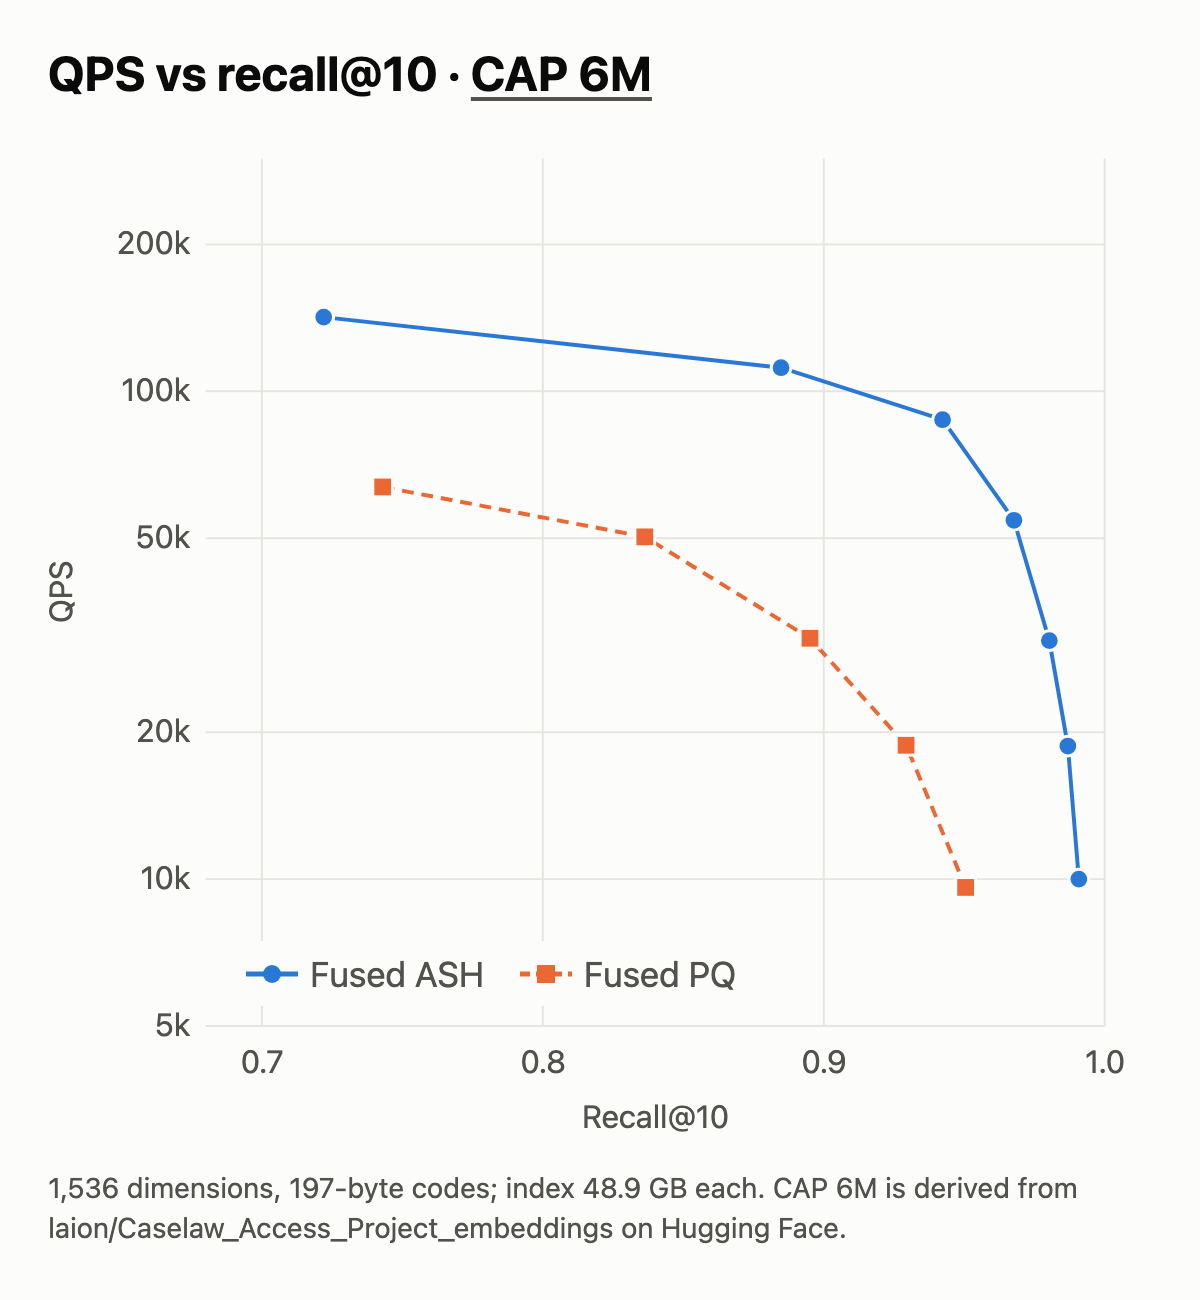
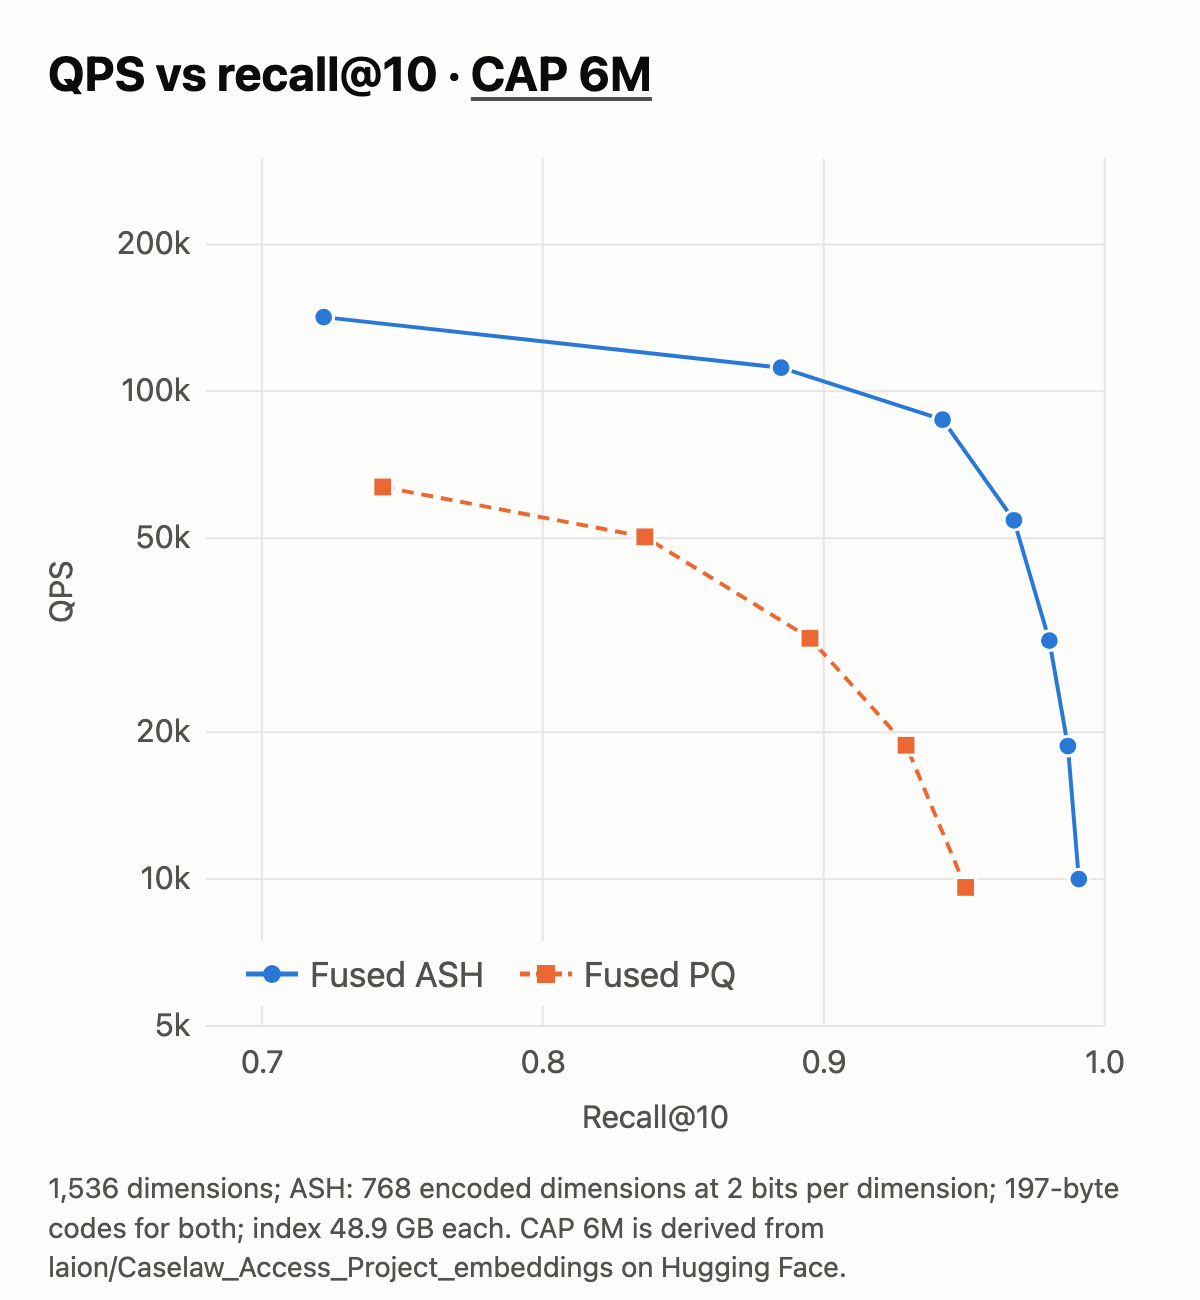
Fix README and example doc issues found in a fresh-clone walkthrough
Correct plot footnotes, CPU requirements and run instructions; fix stale links and anchors.

Changed region(s): [[0.0308, 0.8923, 0.925, 0.9846]]

diff --git a/jvector-examples/README.md b/jvector-examples/README.md
@@ -1,6 +1,29 @@
 # JVector Examples
 
-JVector comes with the following sample programs to try:
+JVector comes with the following sample programs to try. Build them once from the repository root,
+using JDK 22 or newer:
+
+```bash
+mvn -pl jvector-examples -am -DskipTests package -Dnative.onednn=true
+JAR=$(ls jvector-examples/target/jvector-examples-*-jar-with-dependencies.jar)
+```
+
+`-Dnative.onednn=true` adds the oneDNN library described in the
+[native build guide](../jvector-native/src/main/native/README.md#recommended-onednn-build-and-package);
+it needs CMake. The programs download public datasets on first use and cache them under
+`dataset_cache/` in the current directory; set `DATASET_CACHE_DIR` to cache them elsewhere (see
+[datasets](yaml-configs/dataset-catalogs/datasets.md)).
+
+### Hello vector world
+
+[HelloVectorWorld](src/main/java/io/github/jbellis/jvector/example/HelloVectorWorld.java) builds an
+in-memory graph over the public `ada002-100k` dataset (1,536 dimensions, about 650 MB to download)
+and prints the ten nearest neighbors of one query:
+
+```bash
+java --add-modules jdk.incubator.vector --enable-native-access=ALL-UNNAMED \
+  -cp "$JAR" io.github.jbellis.jvector.example.HelloVectorWorld
+```
 
 ### Hello ASH world
 
@@ -10,7 +33,8 @@ public `e5-small-v2-100k` dataset (downloaded and cached automatically):
 - [HelloASHWorldInt8](src/main/java/io/github/jbellis/jvector/example/HelloASHWorldInt8.java):
   INT8 query projection, for x86-64 processors with AVX-512 VNNI or AVX-VNNI.
 - [HelloASHWorldFp16](src/main/java/io/github/jbellis/jvector/example/HelloASHWorldFp16.java):
-  native FP16 query projection, for x86-64 processors with AVX-512 FP16.
+  native FP16 query projection, for x86-64 processors with AVX-512 FP16 (Intel Sapphire Rapids or
+  newer); it also needs the oneDNN add-on.
 
 Both teach the same six steps: load vectors, train/encode ASH, construct the graph,
 write fused ASH neighborhoods with NVQ reranking vectors, reopen and search
@@ -19,27 +43,24 @@ They use ASH(b=2,d=192) for 384-dimensional inputs. Stored-code precision (`b`)
 is independent of query-projection precision; training and encoding remain FP32.
 NVQ's mean is collected during ASH encoding, avoiding another input scan.
 
-Build the examples with the native provider and oneDNN support described in the
-[native build guide](../jvector-native/src/main/native/README.md#recommended-onednn-build-and-package).
-From the repository root, using JDK 22 or newer:
+With the jar built as above:
 
 ```bash
-mvn package -DskipTests
-java --add-modules=jdk.incubator.vector --enable-native-access=ALL-UNNAMED -Xmx8g \
-  -cp jvector-examples/target/jvector-examples-4.1.0-SNAPSHOT-jar-with-dependencies.jar \
-  io.github.jbellis.jvector.example.HelloASHWorldInt8
-java --add-modules=jdk.incubator.vector --enable-native-access=ALL-UNNAMED -Xmx8g \
-  -cp jvector-examples/target/jvector-examples-4.1.0-SNAPSHOT-jar-with-dependencies.jar \
-  io.github.jbellis.jvector.example.HelloASHWorldFp16
+java --add-modules jdk.incubator.vector --enable-native-access=ALL-UNNAMED -Xmx8g \
+  -cp "$JAR" io.github.jbellis.jvector.example.HelloASHWorldInt8
+java --add-modules jdk.incubator.vector --enable-native-access=ALL-UNNAMED -Xmx8g \
+  -cp "$JAR" io.github.jbellis.jvector.example.HelloASHWorldFp16
 ```
 
-Run the program matching your CPU; explicit unsupported precisions fail instead
-of silently changing precision. Each saves `ash-int8.graph` or `ash-fp16.graph`
+Run the program matching your CPU. On Linux,
+`grep -o -m1 -w 'avx512_fp16\|avx512_vnni\|avx_vnni' /proc/cpuinfo` lists the features that
+apply. An unsupported precision fails instead of silently changing precision; HelloASHWorldFp16
+reports this only after it has built and saved its index. Each saves `ash-int8.graph` or `ash-fp16.graph`
 and prints top-ten vector ordinals, similarity scores and visited-node counts
 for the first held-out query using both synchronous and queued search. An optional
 argument selects a new output path;
-existing files are never overwritten. Original vectors are not needed to reopen
-the finished index.
+existing files are never overwritten, so delete the index or pass a new path to run a
+program again. Original vectors are not needed to reopen the finished index.
 
 The synchronous section introduces preparation and graph search for one query.
 The queued section submits eight independent queries using two application-assigned
@@ -59,15 +80,17 @@ For more hardware choices, see [projection precision](../docs/ash-projection-pre
 ### Batched file-backed vectors
 
 Two hello-world programs use public-catalog `e5-small-v2-100k`, or accept an existing
-`.fvecs` file through `-DvectorFile=/path/to/vectors.fvecs`:
+`.fvecs` file:
 
 ```bash
-mvn -Pjdk20 -pl jvector-examples -am compile exec:exec@hello-batched-vectors
-mvn -Pjdk20 -pl jvector-examples -am compile exec:exec@hello-batched-quantization
+java --add-modules jdk.incubator.vector --enable-native-access=ALL-UNNAMED \
+  -cp "$JAR" io.github.jbellis.jvector.example.HelloBatchedVectors
+java --add-modules jdk.incubator.vector --enable-native-access=ALL-UNNAMED \
+  -cp "$JAR" io.github.jbellis.jvector.example.HelloBatchedQuantization
 ```
 
-Run from the repository root with JDK 23. The first demonstrates scans, selections
-and vector ownership; the second trains and encodes with PQ and NVQ. See
+To use your own file, pass its path (`/path/to/vectors.fvecs`) as the argument. The first
+demonstrates scans, selections and vector ownership; the second trains and encodes with PQ and NVQ. See
 [Batched input vector access](../docs/batched-vector-access.md) for configuration,
 source lifecycle, and integration guidance.
 
@@ -77,24 +100,14 @@ A simple benchmark for the sift dataset located in the [siftsmall](../siftsmall)
 > `mvn compile exec:exec@sift`
 
 ### Bench
-Performs grid search across the `GraphIndexBuilder` parameter space to find
-the best tradeoffs between recall and throughput.  
-
-This benchmark requires `fvecs' versions of datasets from [https://github.com/erikbern/ann-benchmarks](https://github.com/erikbern/ann-benchmarks/blob/main/README.md#data-sets) to be downloaded to `dataset_cache` 
-directory under the project root. 
+Builds and measures indexes from YAML descriptions of datasets, index parameters and
+measurements (BenchYAML). With no arguments it runs the default set of small public datasets,
+downloading them on first use:
 
 > `mvn compile exec:exec@bench`
 
-Some sample KNN datasets for testing based on ada-002 embeddings generated on wikipedia data are available in ivec/fvec format for testing at:
-
-```
-aws s3 ls s3://astra-vector/wikipedia_squad/ --no-sign-request 
-                           PRE 100k/
-                           PRE 1M/
-                           PRE 4M/
-```
-
-Bench automatically downloads the 100k dataset to the `./fvec` directory .
+See [Benchmarking with BenchYAML](../README.md#benchmarking-with-benchyaml) for selecting datasets
+and configurations, and [How to run benchmarks](../docs/benchmarking.md) for the details.
 
 To run `SiftSmall`/`Bench` without the JVM vector module available, you can use the following invocations:
 
@@ -106,7 +119,7 @@ To run `SiftSmall`/`Bench` without the JVM vector module available, you can use 
 
 A simple service for adding / querying vectors over a unix socket.
 
-Install [socat]() using homebrew on mac or apt/rpm on linux
+Install [socat](http://www.dest-unreach.org/socat/) using Homebrew on mac or apt/rpm on linux
 
 Mac:
   > `brew install socat`
@@ -157,7 +170,7 @@ RESULT [2,1,0]
 
 ### Vector prefetching benchmark
 
-Compare preload, synchronous demand reads, and the PR's buffered source with
+Compare preload, synchronous demand reads, and the buffered source with
 `io.github.jbellis.jvector.example.VectorPrefetchBenchmark`. Use `--samples N` for training sample size;
 each launch samples, trains, and encodes the entire candidate set, running the
 three arms sequentially in fresh JVMs. PQ/NVQ and named quantization parameters are selectable.

diff --git a/README.md b/README.md
@@ -25,7 +25,7 @@ grows ("[the curse of dimensionality](https://en.wikipedia.org/wiki/Curse_of_dim
 large datasets, an approximate answer in logarithmic time is usually more useful than an exact
 answer in linear time.
 
-ANN indexes are either partition-based, like [LSH or IVF](https://www.datastax.com/guides/what-is-a-vector-index)
+ANN indexes are either partition-based, like [LSH or IVF](https://docs.nvidia.com/cuvs/getting-started/introduction/vector-search)
 and [ScaNN](https://github.com/google-research/google-research/tree/master/scann), or graph-based,
 like [HNSW](https://arxiv.org/abs/1603.09320) and
 [DiskANN](https://www.microsoft.com/en-us/research/project/project-akupara-approximate-nearest-neighbor-search-for-large-scale-semantic-search/).
@@ -40,9 +40,9 @@ can live on disk. Construction uses nonblocking concurrency control, so it scale
 
 Graph indexes need their vectors close at hand, and full-precision vectors soon outgrow memory:
 10 million 1,024-dimension vectors take about 41 GB. JVector compresses them with vector
-quantization, here 32× to about 1.3 GB, and the quantizer also sets much of the build time. With the
-same code size, JVector's new ASH quantizer builds indexes 2.3 to 2.6 times faster than product
-quantization (PQ); see [Choosing a quantizer](#choosing-a-quantizer).
+quantization, here 32× to about 1.3 GB, and the quantizer also sets much of the build time. On that
+dataset, Cohere English v3 10M, JVector's new ASH quantizer builds the index 2.3 to 2.6 times faster
+than product quantization (PQ) with the same code size; see [Choosing a quantizer](#choosing-a-quantizer).
 
 ![Build time vs cores for fused ASH and fused PQ](./docs/images/ash-pq-build-time-vs-cores.png)
 
@@ -83,20 +83,25 @@ JAR=$(ls jvector-examples/target/jvector-examples-*-jar-with-dependencies.jar)
 
 `-Dnative.onednn=true` adds the oneDNN library that ASH uses for FP16 query projection and, on some
 processors, INT8 (see [Building and testing](#building-and-testing)). It needs CMake and adds a few
-minutes to the first build. Without it, everything still runs, with slower ASH query projection on
-those paths.
+minutes to the first build. Without it, the library falls back to slower ASH query projection on
+those paths, and HelloASHWorldFp16 cannot run.
 
 | Program | What it shows |
 | --- | --- |
 | [HelloVectorWorld](./jvector-examples/src/main/java/io/github/jbellis/jvector/example/HelloVectorWorld.java) | Build an in-memory graph and search it, in about twenty lines |
-| [HelloASHWorldFp16](./jvector-examples/src/main/java/io/github/jbellis/jvector/example/HelloASHWorldFp16.java) | Train ASH, build a graph, write a fused ASH index with NVQ reranking, reopen it, and search synchronously and through the queued API |
-| [HelloASHWorldInt8](./jvector-examples/src/main/java/io/github/jbellis/jvector/example/HelloASHWorldInt8.java) | The same with INT8 query projection, for x86-64 processors with VNNI |
+| [HelloASHWorldInt8](./jvector-examples/src/main/java/io/github/jbellis/jvector/example/HelloASHWorldInt8.java) | Train ASH, build a graph, write a fused ASH index with NVQ reranking, reopen it, and search synchronously and through the queued API, with INT8 query projection; needs x86-64 with AVX-512 VNNI or AVX-VNNI |
+| [HelloASHWorldFp16](./jvector-examples/src/main/java/io/github/jbellis/jvector/example/HelloASHWorldFp16.java) | The same with FP16 query projection; needs x86-64 with AVX-512 FP16 (Intel Sapphire Rapids or newer) and the oneDNN add-on |
 | [HelloBatchedVectors](./jvector-examples/src/main/java/io/github/jbellis/jvector/example/HelloBatchedVectors.java) and [HelloBatchedQuantization](./jvector-examples/src/main/java/io/github/jbellis/jvector/example/HelloBatchedQuantization.java) | Batched access to file-backed vectors, and encoding them with PQ and NVQ |
 
 ```bash
 java --add-modules jdk.incubator.vector --enable-native-access=ALL-UNNAMED \
   -cp "$JAR" io.github.jbellis.jvector.example.HelloVectorWorld
 ```
+
+Run the others the same way, changing the class name. On Linux,
+`grep -o -m1 -w 'avx512_fp16\|avx512_vnni\|avx_vnni' /proc/cpuinfo` shows which ASH program your
+processor supports. Each ASH program writes its index (`ash-int8.graph` or `ash-fp16.graph`) to the
+current directory and never overwrites one; delete it or pass a new path as the argument to run again.
 
 The [examples README](./jvector-examples/README.md) covers each program, and the
 [tutorials](./docs/tutorials/) walk through the API step by step, starting with
@@ -153,7 +158,7 @@ At the same code size, ASH reaches higher recall at a given throughput on each o
 <img src="./docs/images/ash-pq-qps-recall-cohere.png" alt="QPS vs recall@10 for fused ASH and fused PQ on Cohere English v3 10M" width="600">
 <img src="./docs/images/ash-pq-qps-recall-cap.png" alt="QPS vs recall@10 for fused ASH and fused PQ on CAP 6M" width="600">
 
-<sub>Fused ASH and fused PQ at 2 bits per dimension (32× compression), on a Google Cloud
+<sub>Fused ASH and fused PQ with the same code size (32× compression), on a Google Cloud
 n2-standard-64: each index was built once on 32 cores and queried on 32 cores, with the index in
 memory and queries it had not seen. Points are rerank depths up to 640, from recall 0.7 up; the
 deepest is the mean of three runs. ASH used queued execution and adaptive termination, PQ direct
@@ -201,7 +206,7 @@ a larger-than-memory index reads one page per node it expands instead of sometim
 
 BenchYAML builds and measures indexes from YAML descriptions of datasets, index parameters and
 measurements. For a first run, benchmark one small public dataset from the repository root. It downloads
-on first use (about 430 MB), then builds and searches 100,000 vectors in about a minute and prints one table:
+on first use (about 430 MB), then builds and searches 100,000 vectors in about a minute and prints recall and throughput tables:
 
 ```bash
 mvn compile exec:exec@bench -pl jvector-examples -am -DbenchArgs=cohere-english-v3-100k
@@ -261,7 +266,7 @@ projection, INT8 on other VNNI CPUs, and batch encoding. Each falls back to a po
 
 - Foundations: the [HNSW](https://ieeexplore.ieee.org/abstract/document/8594636) and
   [DiskANN](https://suhasjs.github.io/files/diskann_neurips19.pdf) papers, and
-  [a higher-level explainer](https://www.datastax.com/guides/hierarchical-navigable-small-worlds)
+  [a higher-level explainer](https://en.wikipedia.org/wiki/Hierarchical_navigable_small_world)
 - [ASH: Asymmetric Scalar Hashing With Learned Dimensionality Reduction for High-Fidelity Vector Quantization](https://dl.acm.org/doi/10.1145/3799682.3841072), Tepper and Willke (CIKM 2026)
 - [Product quantization](https://doi.org/10.1109/TPAMI.2010.57), Jégou, Douze and Schmid (TPAMI 2011)
 - [NVQ](https://arxiv.org/abs/2509.18471)

diff --git a/docs/vector-prefetch-benchmark.md b/docs/vector-prefetch-benchmark.md
@@ -13,10 +13,10 @@ Each launch compares three arms **one at a time**, in fresh JVMs:
    **outside comparison timing**; the sample is then selected
    from resident vectors inside timing. This is the ideal resident-input baseline.
 2. **demand**: synchronous positional reads of requested records, without a cache,
-   I/O executor, batching or speculative read-ahead. Float decoding matches the PR source.
-3. **prefetch**: unmodified `FvecFileVectorValues.open(path)` defaults from this PR,
+   I/O executor, batching or speculative read-ahead. Float decoding matches `FvecFileVectorValues`.
+3. **prefetch**: unmodified `FvecFileVectorValues.open(path)` defaults,
    through production `VectorAccess` and quantizer APIs. This comparison includes
-   the PR's batching/scheduling as well as prefetching; it is not a read-ahead-only ablation.
+   the source's batching/scheduling as well as prefetching; it is not a read-ahead-only ablation.
 
 Catalog lookup/downloads, selecting ordinal IDs and preparing one query happen
 before timing. Each fresh JVM initially has no resident base vectors in Java. The
@@ -91,7 +91,7 @@ own active child. Start only one microbenchmark configuration at a time.
   default full scan encodes N−1 candidates, and avoids a trivial self-match.
 - `--samples N`, `--seed 42`: training sample count and deterministic ordinal seed; all
   arms use identical ordinals in identical order. The complete ordinal array is
-  supplied to `VectorAccess.copySelected` up front; the PR schedules bounded
+  supplied to `VectorAccess.copySelected` up front; the source schedules bounded
   asynchronous read-ahead across concurrent selection cursors, rather than
   enqueueing the entire set at once. Count must fit the candidate set.
 - `--progress-seconds 30`: phase transitions and infrequent elapsed-time updates;
@@ -135,8 +135,8 @@ function as the sink. Do not treat current quantized results as measurements of 
 future path.
 
 `--loader-options ioThreads=8,batchVectors=64,readAhead=3,maxBufferBytes=67108864`
-configures the existing PR source when using `--mode prefetch`. With no loader
-options, the exact PR defaults are used. Run individual modes when passing loader
+configures the `FvecFileVectorValues` source when using `--mode prefetch`. With no loader
+options, its defaults are used. Run individual modes when passing loader
 options because preload/demand reject unused parameters rather than ignore them.
 
 A future quantizer can supply a public no-argument adapter implementing

diff --git a/docs/tutorials/3-larger-than-memory-tutorial.md b/docs/tutorials/3-larger-than-memory-tutorial.md
@@ -103,7 +103,7 @@ for (int ordinal = 0; ordinal < ravv.size(); ordinal++) {
 ```
 
 > [!TIP]
-> When you call `builder.build(ravv)`, vectors from the RAVV are added to the graph in parallel. There's no parallelization if you add vectors one by one in the same thread. But you can parallelize manually by inserting from multiple threads at once, see the full example in LargerThanMemory.java.
+> When you call `builder.build(ravv)`, vectors from the RAVV are added to the graph in parallel. There's no parallelization if you add vectors one by one in the same thread. But you can parallelize manually by inserting from multiple threads at once, see the full example in [`LargerThanMemory.java`](../../jvector-examples/src/main/java/io/github/jbellis/jvector/example/tutorial/LargerThanMemory.java).
 
 Once we've added all the vectors we can write the graph structure to disk:
 
@@ -185,7 +185,7 @@ SearchResult sr = searcher.search(ssp, topK, rerankK, 0.0f, 0.0f, Bits.ALL);
 
 ## Full Example
 
-The complete code from this tutorial is available in `LargerThanMemory.java`. Run it from the root of this repo using:
+The complete code from this tutorial is available in [`LargerThanMemory.java`](../../jvector-examples/src/main/java/io/github/jbellis/jvector/example/tutorial/LargerThanMemory.java). Run it from the root of this repo using:
 
 ```sh
 mvn compile exec:exec@tutorial -Dtutorial=ltm -pl jvector-examples -am

diff --git a/docs/tutorials/2-disk-tutorial.md b/docs/tutorials/2-disk-tutorial.md
@@ -108,11 +108,11 @@ SearchScoreProvider ssp = DefaultSearchScoreProvider.exact(query, vsf, graphRavv
 SearchResult sr = searcher.search(ssp, topK, rerankK, 0.0f, 0.0f, Bits.ALL);
 ```
 
-The code from this tutorial is available in `DiskIntro.java`. Run it from the root of this repo using
+The code from this tutorial is available in [`DiskIntro.java`](../../jvector-examples/src/main/java/io/github/jbellis/jvector/example/tutorial/DiskIntro.java). Run it from the root of this repo using
 ```sh
 mvn compile exec:exec@tutorial -Dtutorial=disk -pl jvector-examples -am
 ```
 The full example also illustrates the impact that adjusting `rerankK` has on recall.
 
 Next tutorial:
-- Larger than memory indexes with Product Quantization
+- [Larger than memory indexes with Product Quantization](./3-larger-than-memory-tutorial.md)

diff --git a/jvector-native/src/main/native/README.md b/jvector-native/src/main/native/README.md
@@ -992,7 +992,7 @@ continues to use Highway FP32. The FP32 loader validates the same ABI as FP16;
 missing/older add-ons and unsupported operations keep Highway. FP16 automatic
 mode additionally falls back for operands outside FP16's finite range. Explicit
 `fp16` and `int8` modes require support; invalid inputs, allocation failures and execution
-errors propagate. See [implementation and measured encoding scope](../../../../docs/native-ash-preparation.md#preferred-onednn-fp32-encoding-projection-november-1-2026).
+errors propagate. See [implementation and measured encoding scope](../../../../docs/native-ash-preparation.md#onednn-fp32-encoding-projection).
 
 ### Ownership, parallelism and tests
 

diff --git a/docs/tutorials/1-intro-tutorial.md b/docs/tutorials/1-intro-tutorial.md
@@ -140,10 +140,10 @@ for (NodeScore ns : result.getNodes()) {
 }
 ```
 
-For the full example, refer `jvector-examples/../VectorIntro.java`. Run it using
+For the full example, see [`VectorIntro.java`](../../jvector-examples/src/main/java/io/github/jbellis/jvector/example/tutorial/VectorIntro.java). Run it from the root of this repo using
 ```sh
 mvn compile exec:exec@tutorial -Dtutorial=intro -pl jvector-examples -am
 ```
 
 Next tutorial:
-- The OnDiskGraphIndex
+- [The OnDiskGraphIndex](./2-disk-tutorial.md)
